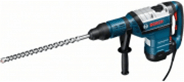
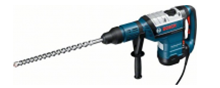
Финал 10

Changed region(s): [[0.0, 0.0, 1.0, 1.0]]

diff --git a/catalog.html b/catalog.html
@@ -170,7 +170,7 @@
 
 		        <div class="catalog-product-item">
 		      		<div class="catalog-product">
-						<img class="img1" src="img/product2.png" alt="Перфоратор BOSH BFG 3000" width="127" height="88">
+						<img class="img1" src="img/product2.png" alt="Перфоратор BOSH BFG 3000" width="220" height="88">
 						<p class="product-text">Перфоратор BOSCH BFG 3000</p>
 						<div class="old-price">22500 Р.</div>
 						<div class="new-price">15500 Р.</div>
@@ -180,7 +180,7 @@
 						</div>
 					</div>
 					<div class="catalog-product">
-						<img class="img2" src="img/product3.png" alt="Перфоратор BOSH BFG 6000" width="144" height="88">
+						<img class="img2" src="img/product3.png" alt="Перфоратор BOSH BFG 6000" width="220" height="88">
 						<p class="product-text">Перфоратор BOSCH BFG 6000</p>
 						<div class="old-price">30500 Р.</div>
 						<div class="new-price">25500 Р.</div>
@@ -190,7 +190,7 @@
 						</div>
 					</div>
 					<div class="catalog-product new">
-						<img class="img3" src="img/product2.png" alt="Перфоратор BOSH BFG 2000" width="127" height="88">
+						<img class="img3" src="img/product4.png" alt="Перфоратор BOSH BFG 2000" width="220" height="88">
 						<p class="product-text">Перфоратор BOSCH BFG 2000</p>
 						<div class="old-price hidden">32500 Р.</div>
 						<div class="new-price">12500 Р.</div>
@@ -201,7 +201,7 @@
 					</div>
 					
 					<div class="catalog-product">
-						<img class="img1" src="img/product2.png" alt="Перфоратор BOSH BFG 3000" width="127" height="88">
+						<img class="img1" src="img/product2.png" alt="Перфоратор BOSH BFG 3000" width="220" height="88">
 						<p class="product-text">Перфоратор BOSCH BFG 3000</p>
 						<div class="old-price">22500 Р.</div>
 						<div class="new-price">15500 Р.</div>
@@ -211,7 +211,7 @@
 						</div>
 					</div>
 					<div class="catalog-product new">
-						<img class="img2" src="img/product3.png" alt="Перфоратор BOSH BFG 6000" width="144" height="88">
+						<img class="img2" src="img/product3.png" alt="Перфоратор BOSH BFG 6000" width="220" height="88">
 						<p class="product-text">Перфоратор BOSCH BFG 6000</p>
 						<div class="old-price">30500 Р.</div>
 						<div class="new-price">25500 Р.</div>
@@ -221,7 +221,7 @@
 						</div>
 					</div>
 					<div class="catalog-product">
-						<img class="img3" src="img/product2.png" alt="Перфоратор BOSH BFG 2000" width="127" height="88">
+						<img class="img3" src="img/product4.png" alt="Перфоратор BOSH BFG 2000" width="220" height="88">
 						<p class="product-text">Перфоратор BOSCH BFG 2000</p>
 						<div class="old-price hidden">32500 Р.</div>
 						<div class="new-price">12500 Р.</div>
@@ -232,7 +232,7 @@
 					</div>
 
 					<div class="catalog-product new">
-						<img class="img1" src="img/product2.png" alt="Перфоратор BOSH BFG 3000" width="127" height="88">
+						<img class="img1" src="img/product2.png" alt="Перфоратор BOSH BFG 3000" width="220" height="88">
 						<p class="product-text">Перфоратор BOSCH BFG 3000</p>
 						<div class="old-price">22500 Р.</div>
 						<div class="new-price">15500 Р.</div>
@@ -242,7 +242,7 @@
 						</div>
 					</div>
 					<div class="catalog-product">
-						<img class="img2" src="img/product3.png" alt="Перфоратор BOSH BFG 6000" width="144" height="88">
+						<img class="img2" src="img/product3.png" alt="Перфоратор BOSH BFG 6000" width="220" height="88">
 						<p class="product-text">Перфоратор BOSCH BFG 6000</p>
 						<div class="old-price">30500 Р.</div>
 						<div class="new-price">25500 Р.</div>
@@ -252,7 +252,7 @@
 						</div>
 					</div>
 					<div class="catalog-product">
-						<img class="img3" src="img/product2.png" alt="Перфоратор BOSH BFG 2000" width="127" height="88">
+						<img class="img3" src="img/product4.png" alt="Перфоратор BOSH BFG 2000" width="220" height="88">
 						<p class="product-text">Перфоратор BOSCH BFG 2000</p>
 						<div class="old-price hidden">32500 Р.</div>
 						<div class="new-price">12500 Р.</div>

diff --git a/css/style.css b/css/style.css
@@ -662,59 +662,57 @@ main{
 	margin-right: 20px;
 }
 
-.slider::before{
-	content: "";
+.slider-button-left{
 	position: absolute;
-	width: 25px;
-	height: 40px;
+	top: 90px;
+	left: 0;
+	height: 42px;
+	width: 24px;
+	background-color: transparent;
 	background-image: url("../img/icon-left.svg");
-  	background-repeat: no-repeat;
-  	background-position: 0 0;
-	top: 115px;
-	left: 25px;
+	background-repeat: no-repeat;
+	border: none;
 	cursor: pointer;
 }
 
-.slider::after{
-	content: "";
+.slider-button-right{
 	position: absolute;
-	width: 25px;
-	height: 40px;
+	top: 90px;
+	left: 555px;
+	height: 42px;
+	width: 24px;
+	background-color: transparent;
 	background-image: url("../img/icon-right.svg");
-  	background-repeat: no-repeat;
-  	background-position: 0 0;
-	top: 115px;
-	right: 20px;
+	background-repeat: no-repeat;
+	border: none;
 	cursor: pointer;
 }
 
-.slider-item-button{
-
-}
-
-.slider-item-left::before{
-	content: "";
+.slider-circle-left{
 	position: absolute;
 	top: 195px;
-	left: 273px;
-	width: 10px;
-	height: 10px;
+	left: 270px;
 	border-radius: 50%;
-	background-color: #ffffff;
-	cursor: pointer;
+	width: 12px;
+	height: 12px;
+	padding: 0;
+	border: none;
+	background-color: #fff;
 }
 
-.slider-item-right::after{
-	content: "";
+.slider-circle-right{
+	position: absolute;
 	position: absolute;
 	top: 195px;
-	left: 293px;
-	width: 6px;
-	height: 6px;
+	left: 290px;
+	box-sizing: border-box;
 	border-radius: 50%;
-	background-color: #EE3642;
-	border: 2px solid #ffffff;
-	cursor: pointer;
+	padding: 0;
+	width: 12px;
+	height: 12px;
+	border: none;
+	background-color: #EE3543;
+	border: 3px solid #fff;
 }
 
 .slider p{
@@ -887,29 +885,6 @@ main{
 	padding-top: 43px;
 	max-width:100%;
 
-}
-
-.product .img1{
-	/*padding-top: 6px;*/
-	/*margin-left: -5px;*/
-}
-
-.product .img2{
-	/*padding-top: 27px;*/
-	/*margin-left: -15px;*/
-	/*margin-bottom: 30px;*/
-}
-
-.product .img3{
-	/*padding-top: 20px;*/
-	/*margin-left: -22px;*/
-	/*margin-bottom: 22px;*/
-}
-
-.product .img4{
-	/*padding-top: 27px;*/
-	/*margin-left: -30px;*/
-	/*margin-bottom: 30px;*/
 }
 
 .product:hover,
@@ -2372,28 +2347,6 @@ footer{
 	padding-top: 40px;
 	margin-bottom: 42px;
 }
-
-.catalog-product .img1{
-	/*padding-top: 28px;*/
-	/*margin-left: -15px;*/
-	/*margin-bottom: 30px;*/
-}
-
-.catalog-product .img2{
-	/*padding-top: 22px;*/
-	/*margin-left: -24px;*/
-	/*margin-bottom: 20px;*/
-}
-
-.catalog-product .img3{
-	/*padding-top: 28px;*/
-	/*margin-left: -28px;*/
-	/*margin-bottom: 30px;*/
-}
-
-/*-------------------------------------------------catalog-wrapper---------------------------------------------*/
-
-
 
 /*-----------------------------------------------------pagination-list---------------------------------*/
 

diff --git a/index.html b/index.html
@@ -108,8 +108,10 @@
 							<div class="slider-item">
 								<p>Дрели</p>
 								<span>Соседям на радость!</span>
-								<div class="slider-item-left"></div>
-								<div class="slider-item-right"></div>
+								<button class="slider-button-left"></button>
+								<button class="slider-button-right"></button>
+								<button class="slider-circle-left"></button>
+								<button class="slider-circle-right"></button>
 							</div>
 							<a href="catalog.html" class="button">Открыть каталог</a>
 						</div>
@@ -140,7 +142,7 @@
 				
 				<div class="products-wrapper">
 					<div class="product">
-						<img class="img1" src="img/product1.png" alt="Перфоратор BOSCH BFG 9000" width="184" height="88">
+						<img class="img1" src="img/product1.png" alt="Перфоратор BOSCH BFG 9000" width="220" height="88">
 						<p class="product-text">Перфоратор BOSCH BFG 9000</p>
 						<div class="old-price">32500 Р.</div>
 						<div class="new-price">25500 Р.</div>
@@ -150,7 +152,7 @@
 						</div>
 					</div>
 					<div class="product">
-						<img class="img2" src="img/product2.png" alt="Перфоратор BOSCH BFG 3000" width="127" height="88">
+						<img class="img2" src="img/product2.png" alt="Перфоратор BOSCH BFG 3000" width="220" height="88">
 						<p class="product-text">Перфоратор BOSCH BFG 3000</p>
 						<div class="old-price">22500 Р.</div>
 						<div class="new-price">15500 Р.</div>
@@ -160,7 +162,7 @@
 						</div>
 					</div>
 					<div class="product">
-						<img class="img3" src="img/product3.png" alt="Перфоратор BOSCH BFG 6000" width="144" height="88">
+						<img class="img3" src="img/product3.png" alt="Перфоратор BOSCH BFG 6000" width="220" height="88">
 						<p class="product-text">Перфоратор BOSCH BFG 6000</p>
 						<div class="old-price">30500 Р.</div>
 						<div class="new-price">25500 Р.</div>
@@ -170,7 +172,7 @@
 						</div>
 					</div>
 					<div class="product new">
-						<img class="img4" src="img/product2.png" alt="Перфоратор BOSCH BFG 2000" width="127" height="88">
+						<img class="img4" src="img/product4.png" alt="Перфоратор BOSCH BFG 2000" width="220" height="88">
 						<p class="product-text">Перфоратор BOSCH BFG 2000</p>
 						<div class="old-price hidden">32500 Р.</div>
 						<div class="new-price">12500 Р.</div>
